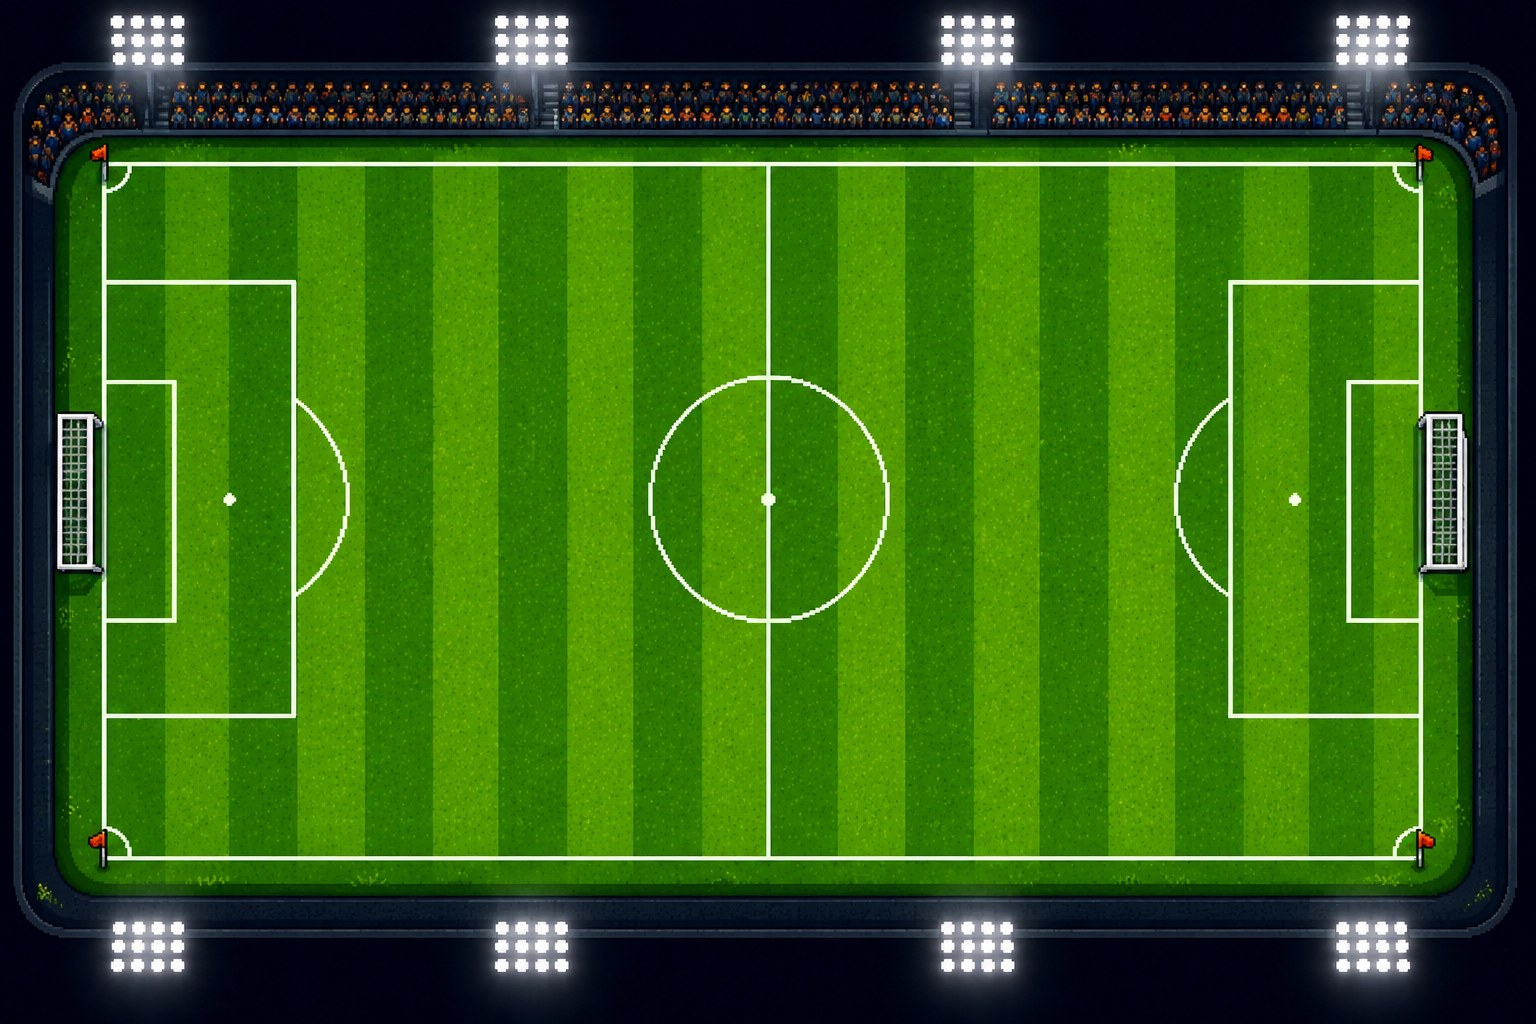
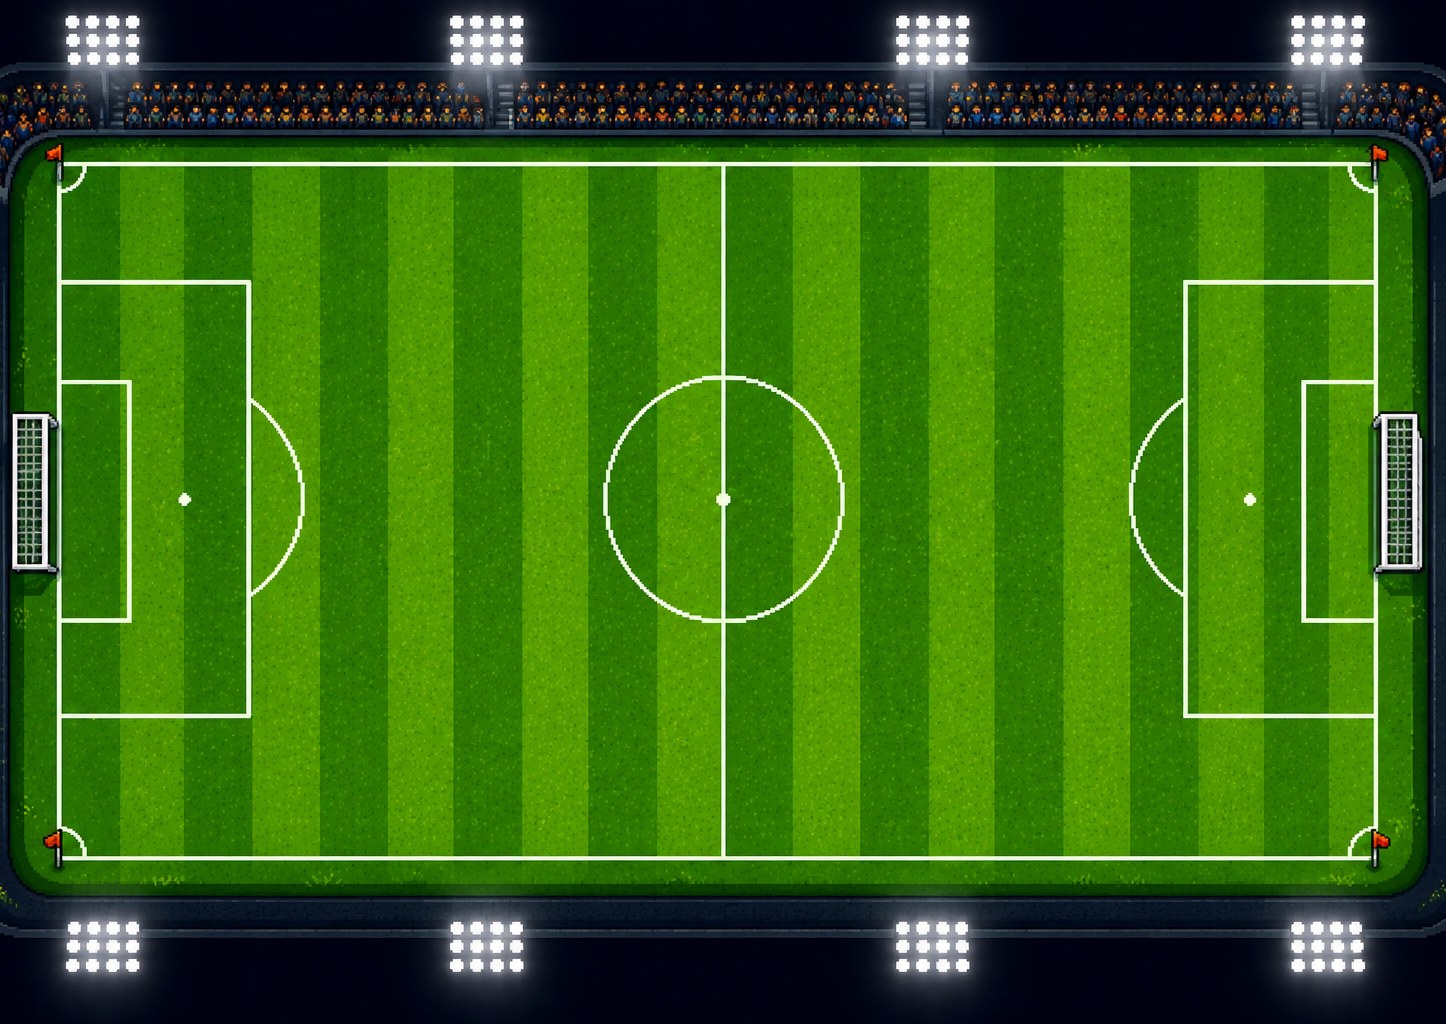
Fix static-noise text on private-match panels, ball overshoot into crowd, and player run-to-line gap
- Redo the panel checkerboard-background removal using flood-fill
  connectivity from the image borders instead of a flat color
  threshold, which was also hard-cutting white text's anti-aliased
  edges into visible static/noise
- Crop the stadium ground's excess crowd margin either side of the
  goals (trim to the net's actual back wall) and recalibrate
  PITCH/GOAL_WIDTH to match; replace the flat near-edge ball limit
  with NET_MIN_X/NET_MAX_X measured at the net's real back wall so
  the ball can no longer sail past it into the crowd
- Remove the player collision-radius buffer on the top/bottom
  sideline clamp so players can run all the way to the touchline

diff --git a/server/server.js b/server/server.js
@@ -28,12 +28,18 @@ const PORT = process.env.PORT || 3000;
 // ---- Match constants (mirrors the geometry in www/index.html) ----
 const FIELD = { w: 1600, h: 800 };
 // x/y/w/h and GOAL_WIDTH are measured off the stadium field art's own
-// touchline/goal-mouth pixels (field_stadium.jpg, 1536x1024 source), scaled
-// into FIELD-space by the same per-axis stretch the client applies to fit
-// the art to the canvas - so the invisible ball/player walls line up with
-// the drawn lines instead of floating past or short of them
+// touchline/goal-mouth pixels (field_stadium.jpg, cropped to 1446x1024 to
+// trim the excess crowd margin either side of the goals), scaled into
+// FIELD-space by the same per-axis stretch the client applies to fit the
+// art to the canvas - so the invisible ball/player walls line up with the
+// drawn lines instead of floating past or short of them
 const GOAL_WIDTH = 234;
-const PITCH = { x: 107, y: 127, w: 1373, h: 544 };
+const PITCH = { x: 64, y: 127, w: 1458, h: 544 };
+// how far into the goal net (past PITCH's x bounds) the ball may travel
+// before hitting the net's actual back wall in the art - previously a flat
+// 2 / FIELD.w-2 let the ball sail into the crowd past the net entirely
+const NET_MIN_X = 10;
+const NET_MAX_X = 1572;
 const PLAYER_R = 26;
 const BALL_R = 16;
 const PLAYER_SPEED = 260;
@@ -277,7 +283,10 @@ function checkBallStall(room, now) {
 
 function clampToPitch(e) {
   const minX = PITCH.x + PLAYER_R, maxX = PITCH.x + PITCH.w - PLAYER_R;
-  const minY = PITCH.y + PLAYER_R, maxY = PITCH.y + PITCH.h - PLAYER_R;
+  // no PLAYER_R buffer on the sidelines (top/bottom) - players can run all
+  // the way to the touchline, their sprite visually spilling over the crowd
+  // at the boundary, rather than stopping short with a gap before the line
+  const minY = PITCH.y, maxY = PITCH.y + PITCH.h;
   e.x = clampNum(e.x, minX, maxX);
   e.y = clampNum(e.y, minY, maxY);
 }
@@ -486,20 +495,20 @@ function clampBallBounds(room) {
   const minX = PITCH.x + BALL_R, maxX = PITCH.x + PITCH.w - BALL_R;
 
   if (b.x < minX) {
-    // the net pocket is drawn INSIDE the field art itself (it doesn't extend
-    // past the canvas edge), so the ball must never be allowed past x=0/w -
-    // otherwise it renders beyond the net into blank space
-    if (inMouth) { if (b.x < 2) { b.x = 2; b.vx *= -0.4; } }
+    // the net has a real, finite depth in the field art - NET_MIN_X/NET_MAX_X
+    // mark where its back wall actually is, so the ball stops inside the net
+    // instead of sailing past it into the crowd
+    if (inMouth) { if (b.x < NET_MIN_X) { b.x = NET_MIN_X; b.vx *= -0.4; } }
     else { b.x = minX; b.vx *= -0.6; }
   }
   if (b.x > maxX) {
-    if (inMouth) { if (b.x > FIELD.w - 2) { b.x = FIELD.w - 2; b.vx *= -0.4; } }
+    if (inMouth) { if (b.x > NET_MAX_X) { b.x = NET_MAX_X; b.vx *= -0.4; } }
     else { b.x = maxX; b.vx *= -0.6; }
   }
 
   // hard failsafe: regardless of the goal-mouth exception above, the ball
   // should never end up meaningfully outside the pitch + net pockets
-  b.x = clampNum(b.x, 2, FIELD.w - 2);
+  b.x = clampNum(b.x, NET_MIN_X, NET_MAX_X);
   b.y = clampNum(b.y, minY, maxY);
 }
 
